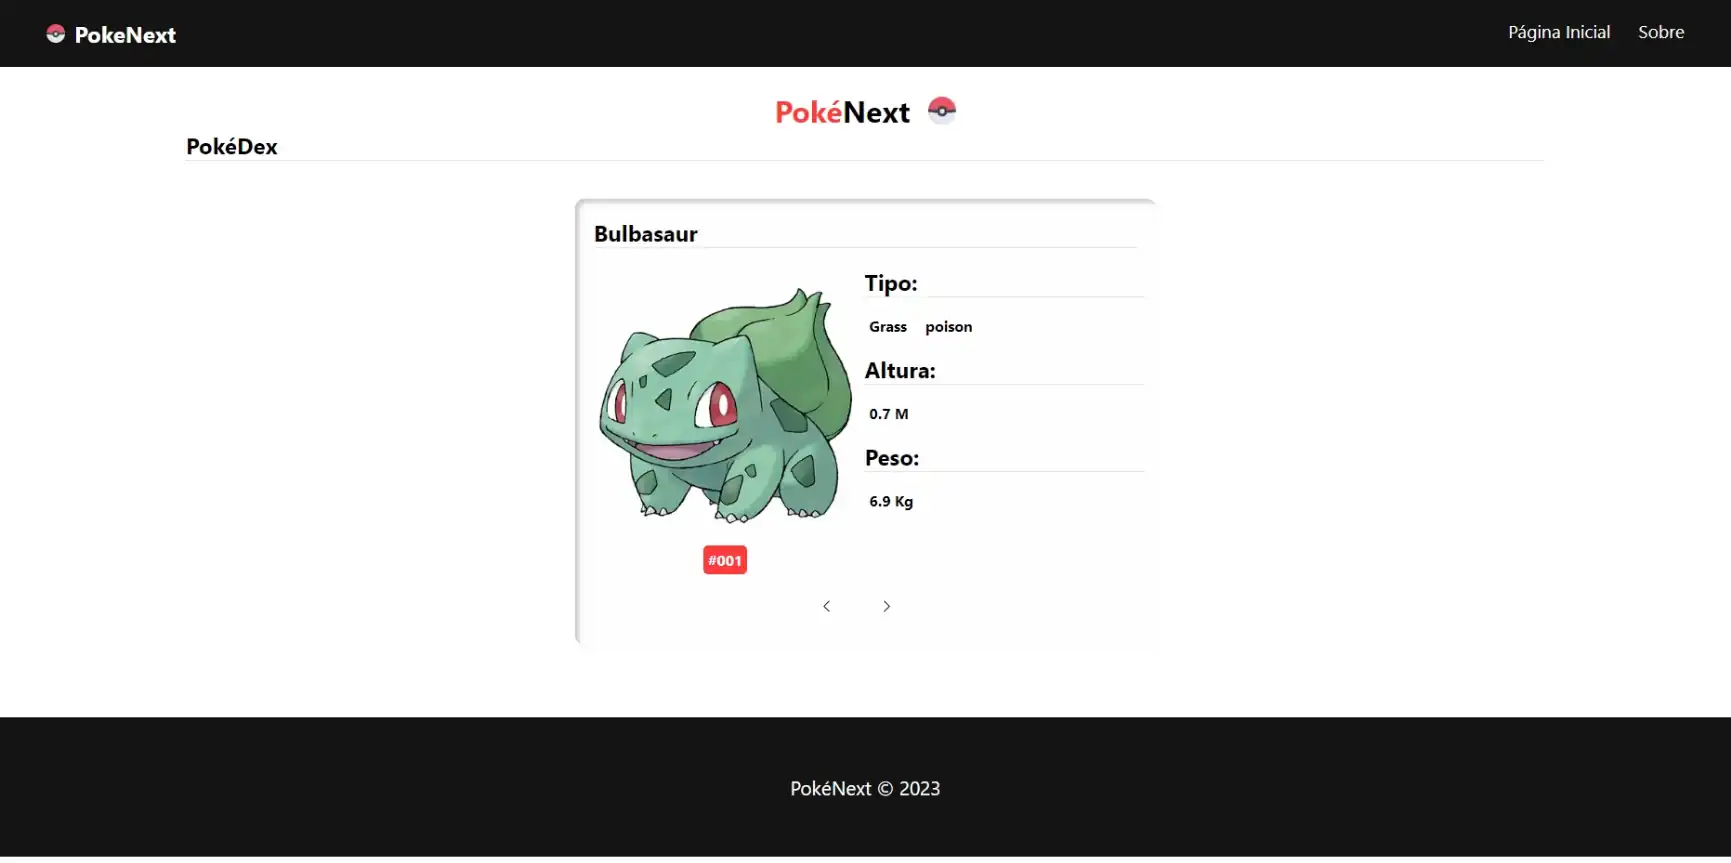
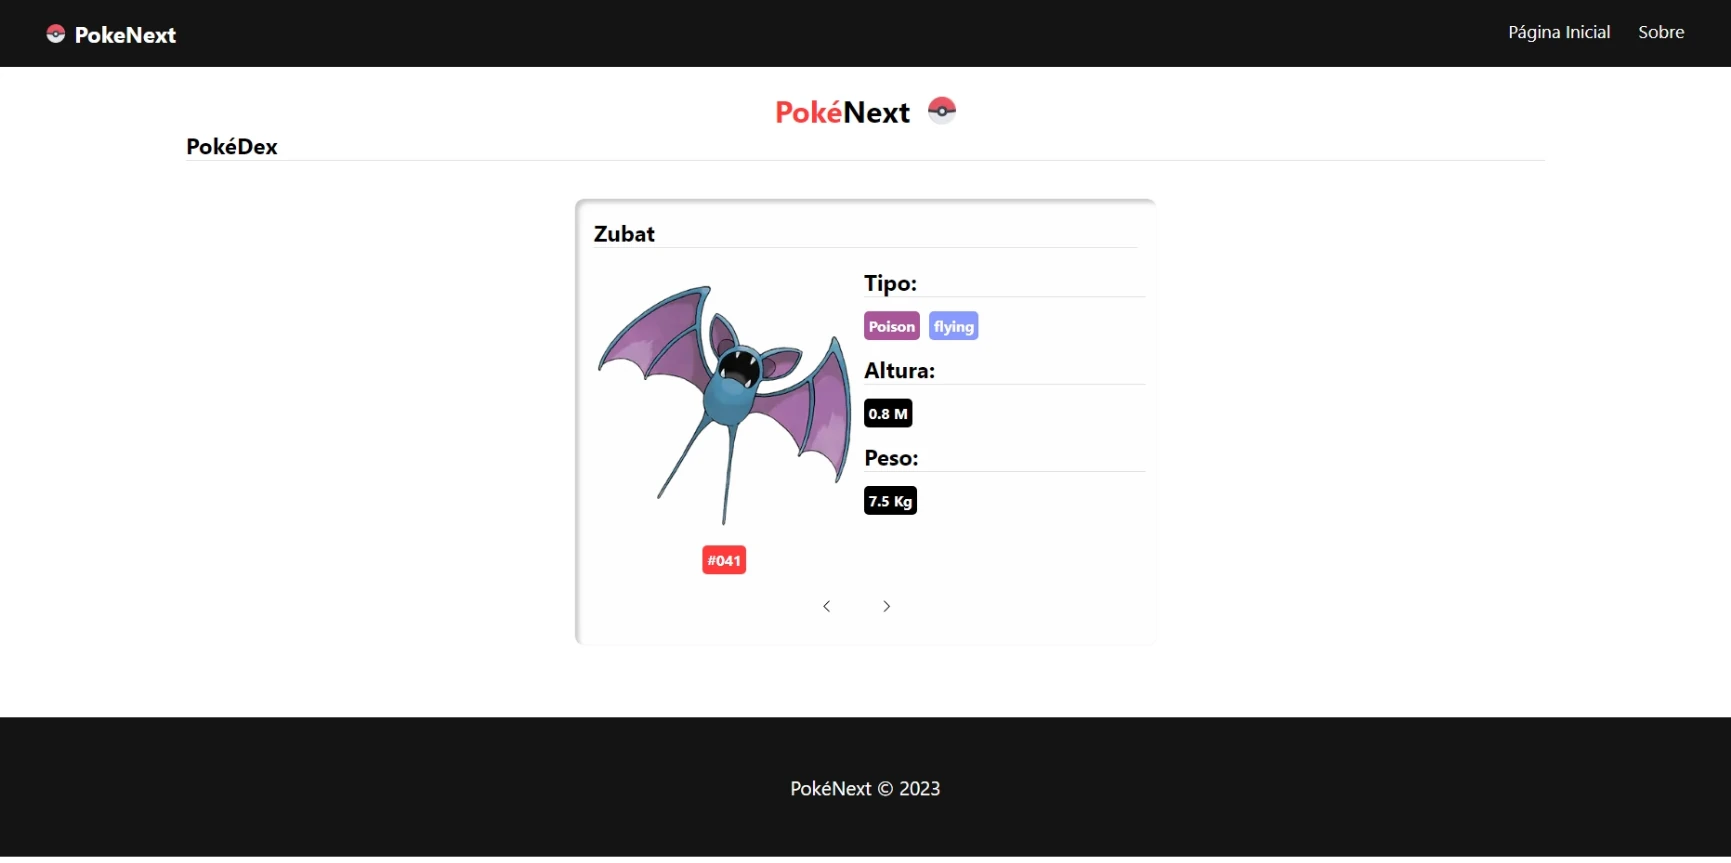
updtae

Changed region(s): [[0.3432, 0.3013, 0.5927, 0.6025], [0.3432, 0.241, 0.4055, 0.3013], [0.4055, 0.6327, 0.4367, 0.6628]]

diff --git a/styles/pages/pokemonId.module.css b/styles/pages/pokemonId.module.css
@@ -52,6 +52,8 @@
     border-radius: 5px;
     padding: 5px;
     margin-right: 10px;
+    background-color: black;
+    color: white;
 }
 
 .pokedex_container {
@@ -64,7 +66,7 @@
     align-items: center;
 }
 
-.pokemon_id{
+.pokemon_id {
     /* margin: 0 auto; */
     background-color: #ff3b3b;
     color: white;
@@ -76,7 +78,7 @@
 .pokedex_pokemon_info {
     min-width: 70%;
 }
-.pokemon_status_container{
+.pokemon_status_container {
     margin-bottom: 20px;
 }
 
@@ -84,7 +86,7 @@
     margin: 25px 0 10px 0;
 }
 
-.buttons_container a{
+.buttons_container a {
     margin-right: 20px;
     border-radius: 5px;
     padding: 15px;
@@ -94,6 +96,78 @@
     transition: 0.7s;
 }
 
-.buttons_container a:hover{
+.buttons_container a:hover {
     background-color: #ccc;
+}
+
+.normal {
+    background-color: #aa9;
+}
+
+.fire {
+    background-color: #f42;
+}
+
+.water {
+    background-color: #39f;
+}
+
+.eletric {
+    background-color: #fc3;
+}
+
+.grass {
+    background-color: #7c5;
+}
+
+.ice {
+    background-color: #6cf;
+}
+
+.fighting {
+    background-color: #b54;
+}
+
+.poison {
+    background-color: #a59;
+}
+
+.ground {
+    background-color: #db5;
+}
+
+.flying {
+    background-color: #89f;
+}
+
+.psychic {
+    background-color: #f59;
+}
+
+.bug {
+    background-color: #ab2;
+}
+
+.rock {
+    background-color: #ba6;
+}
+
+.ghost {
+    background-color: #66b;
+}
+
+.dragon {
+    background-color: #76e;
+}
+
+.dark {
+    background-color: #754;
+}
+
+.steel {
+    background-color: #aab;
+}
+
+.fairy {
+    background-color: #e9e;
 }

diff --git a/pages/pokemon/[pokemonId].tsx b/pages/pokemon/[pokemonId].tsx
@@ -68,7 +68,7 @@ export default function PokemonId({ pokemon }: any) {
                             {pokemon.types.map((item: any) => (
                                 <p
                                     key={item.slot}
-                                    className={styles.pokemon_type}
+                                    className={`${styles.pokemon_type} ${styles[''+ item.type.name]}`}
                                 >
                                     {item.type.name}
                                 </p>
